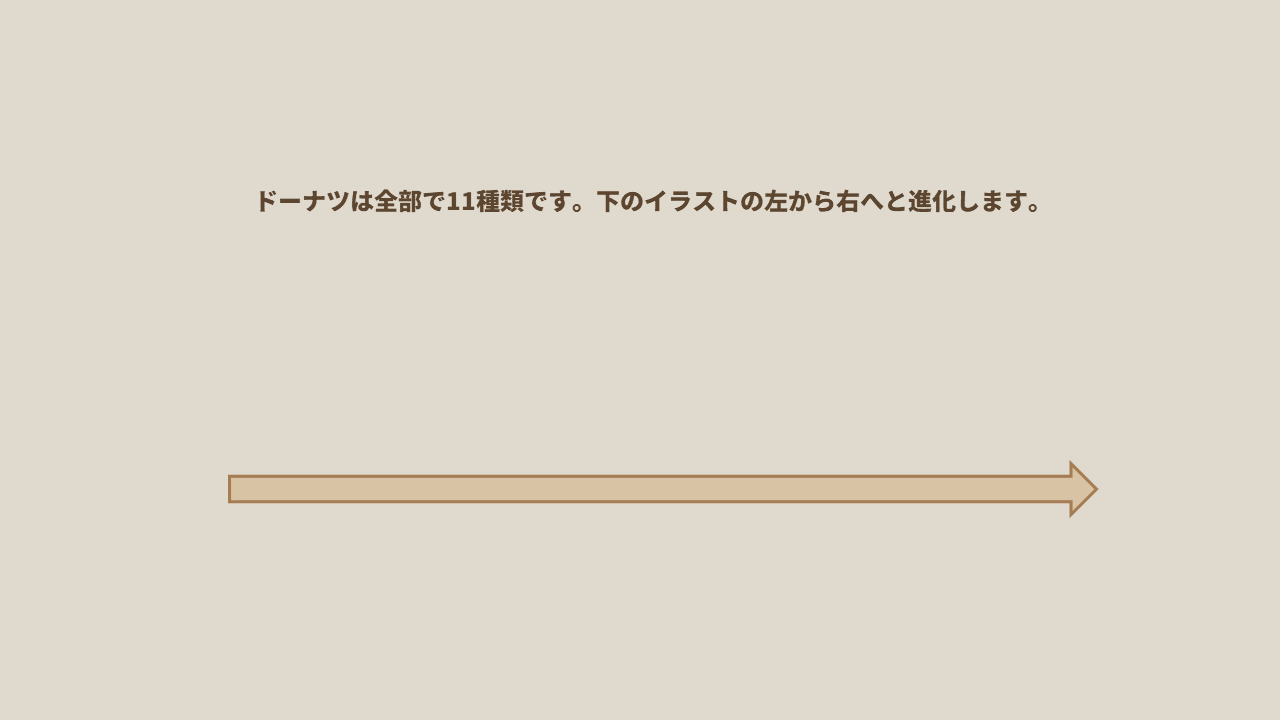
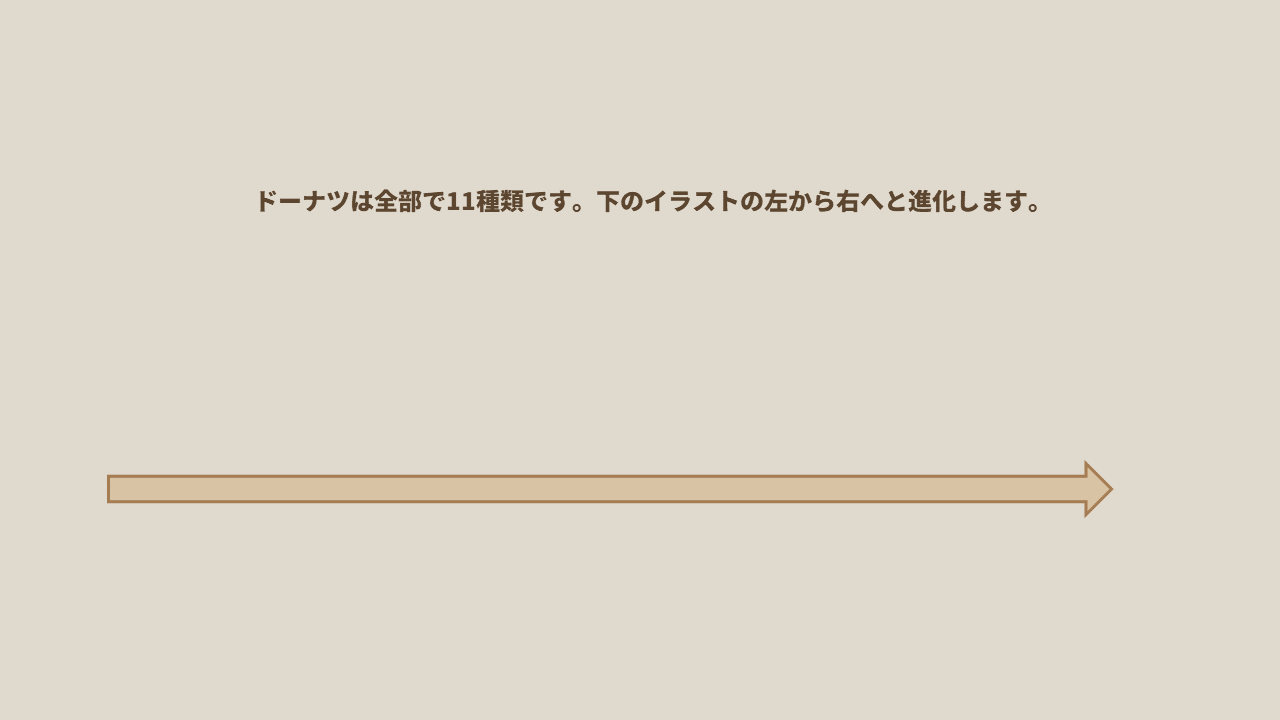
add help

Changed region(s): [[0.0625, 0.6417, 0.1875, 0.7028], [0.8125, 0.6417, 0.875, 0.7333]]

diff --git a/Donut/Donut/Scene/SceneManager.cpp b/Donut/Donut/Scene/SceneManager.cpp
@@ -48,7 +48,7 @@ void SceneManager::Initialize()
 
 	FontManager::Initialize();
 
-	ChangeScene(eSceneType::eTitle);
+	ChangeScene(eSceneType::eHelp);
 }
 
 void SceneManager::Update()
